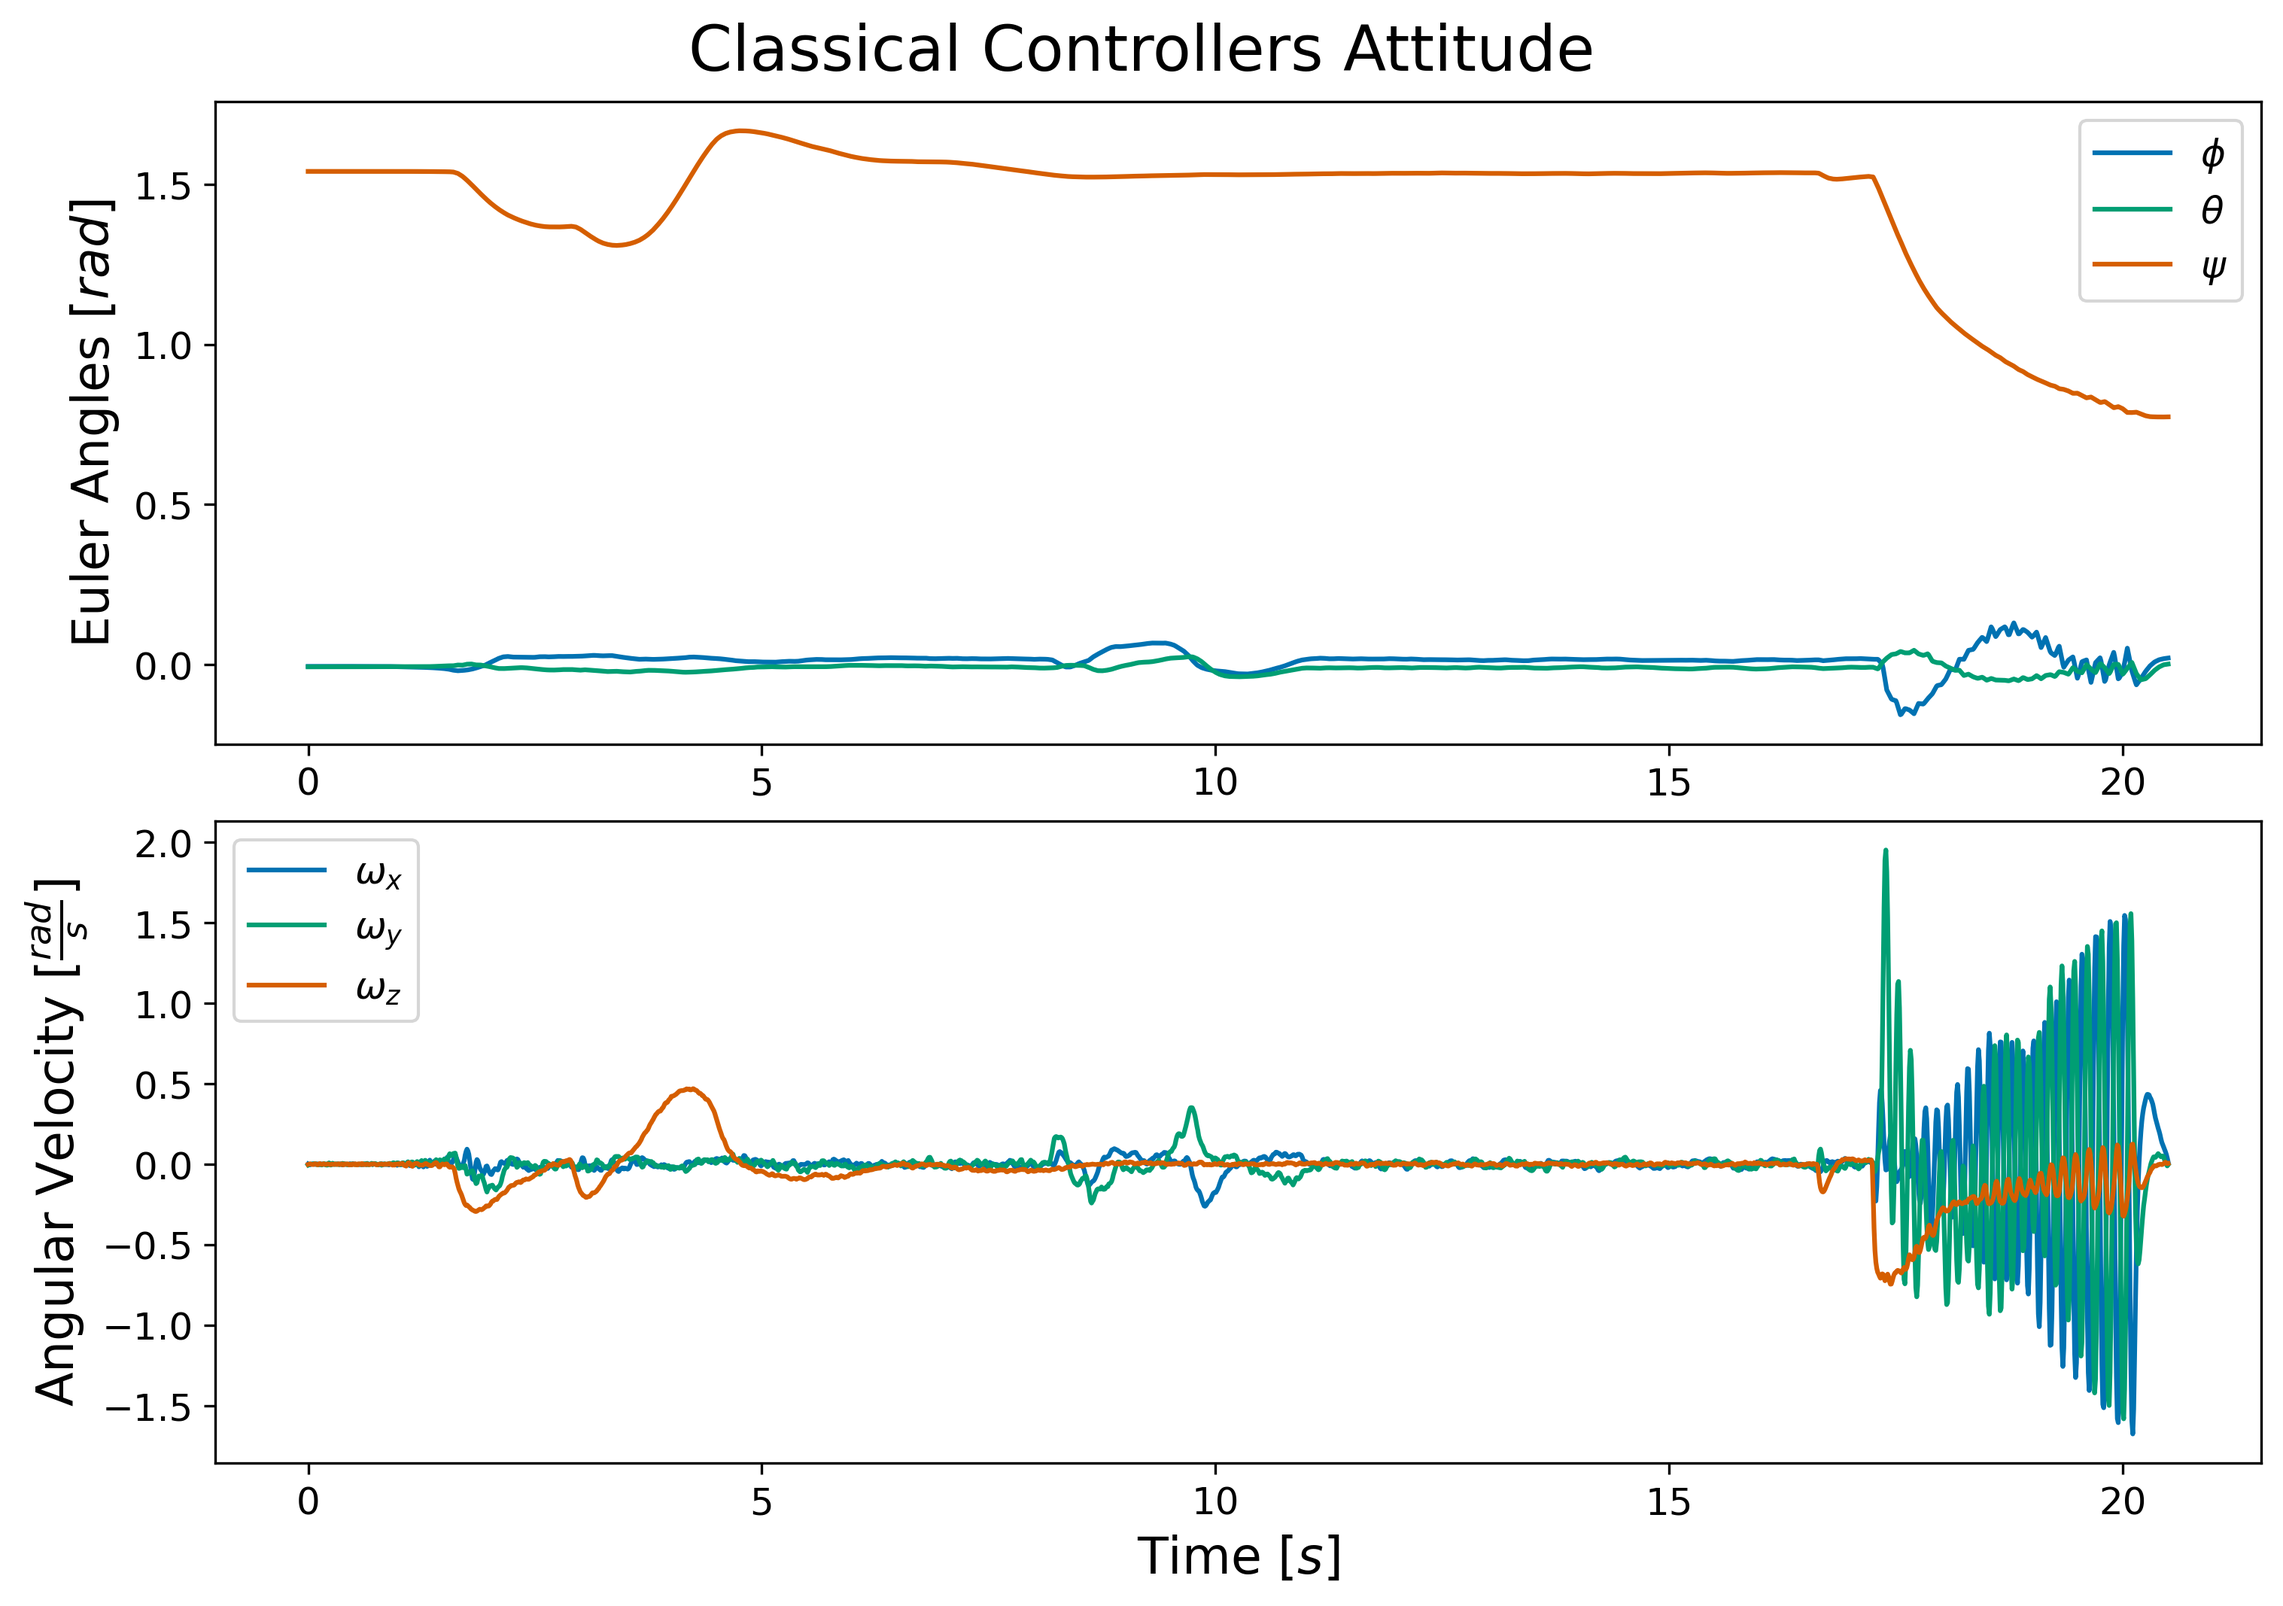
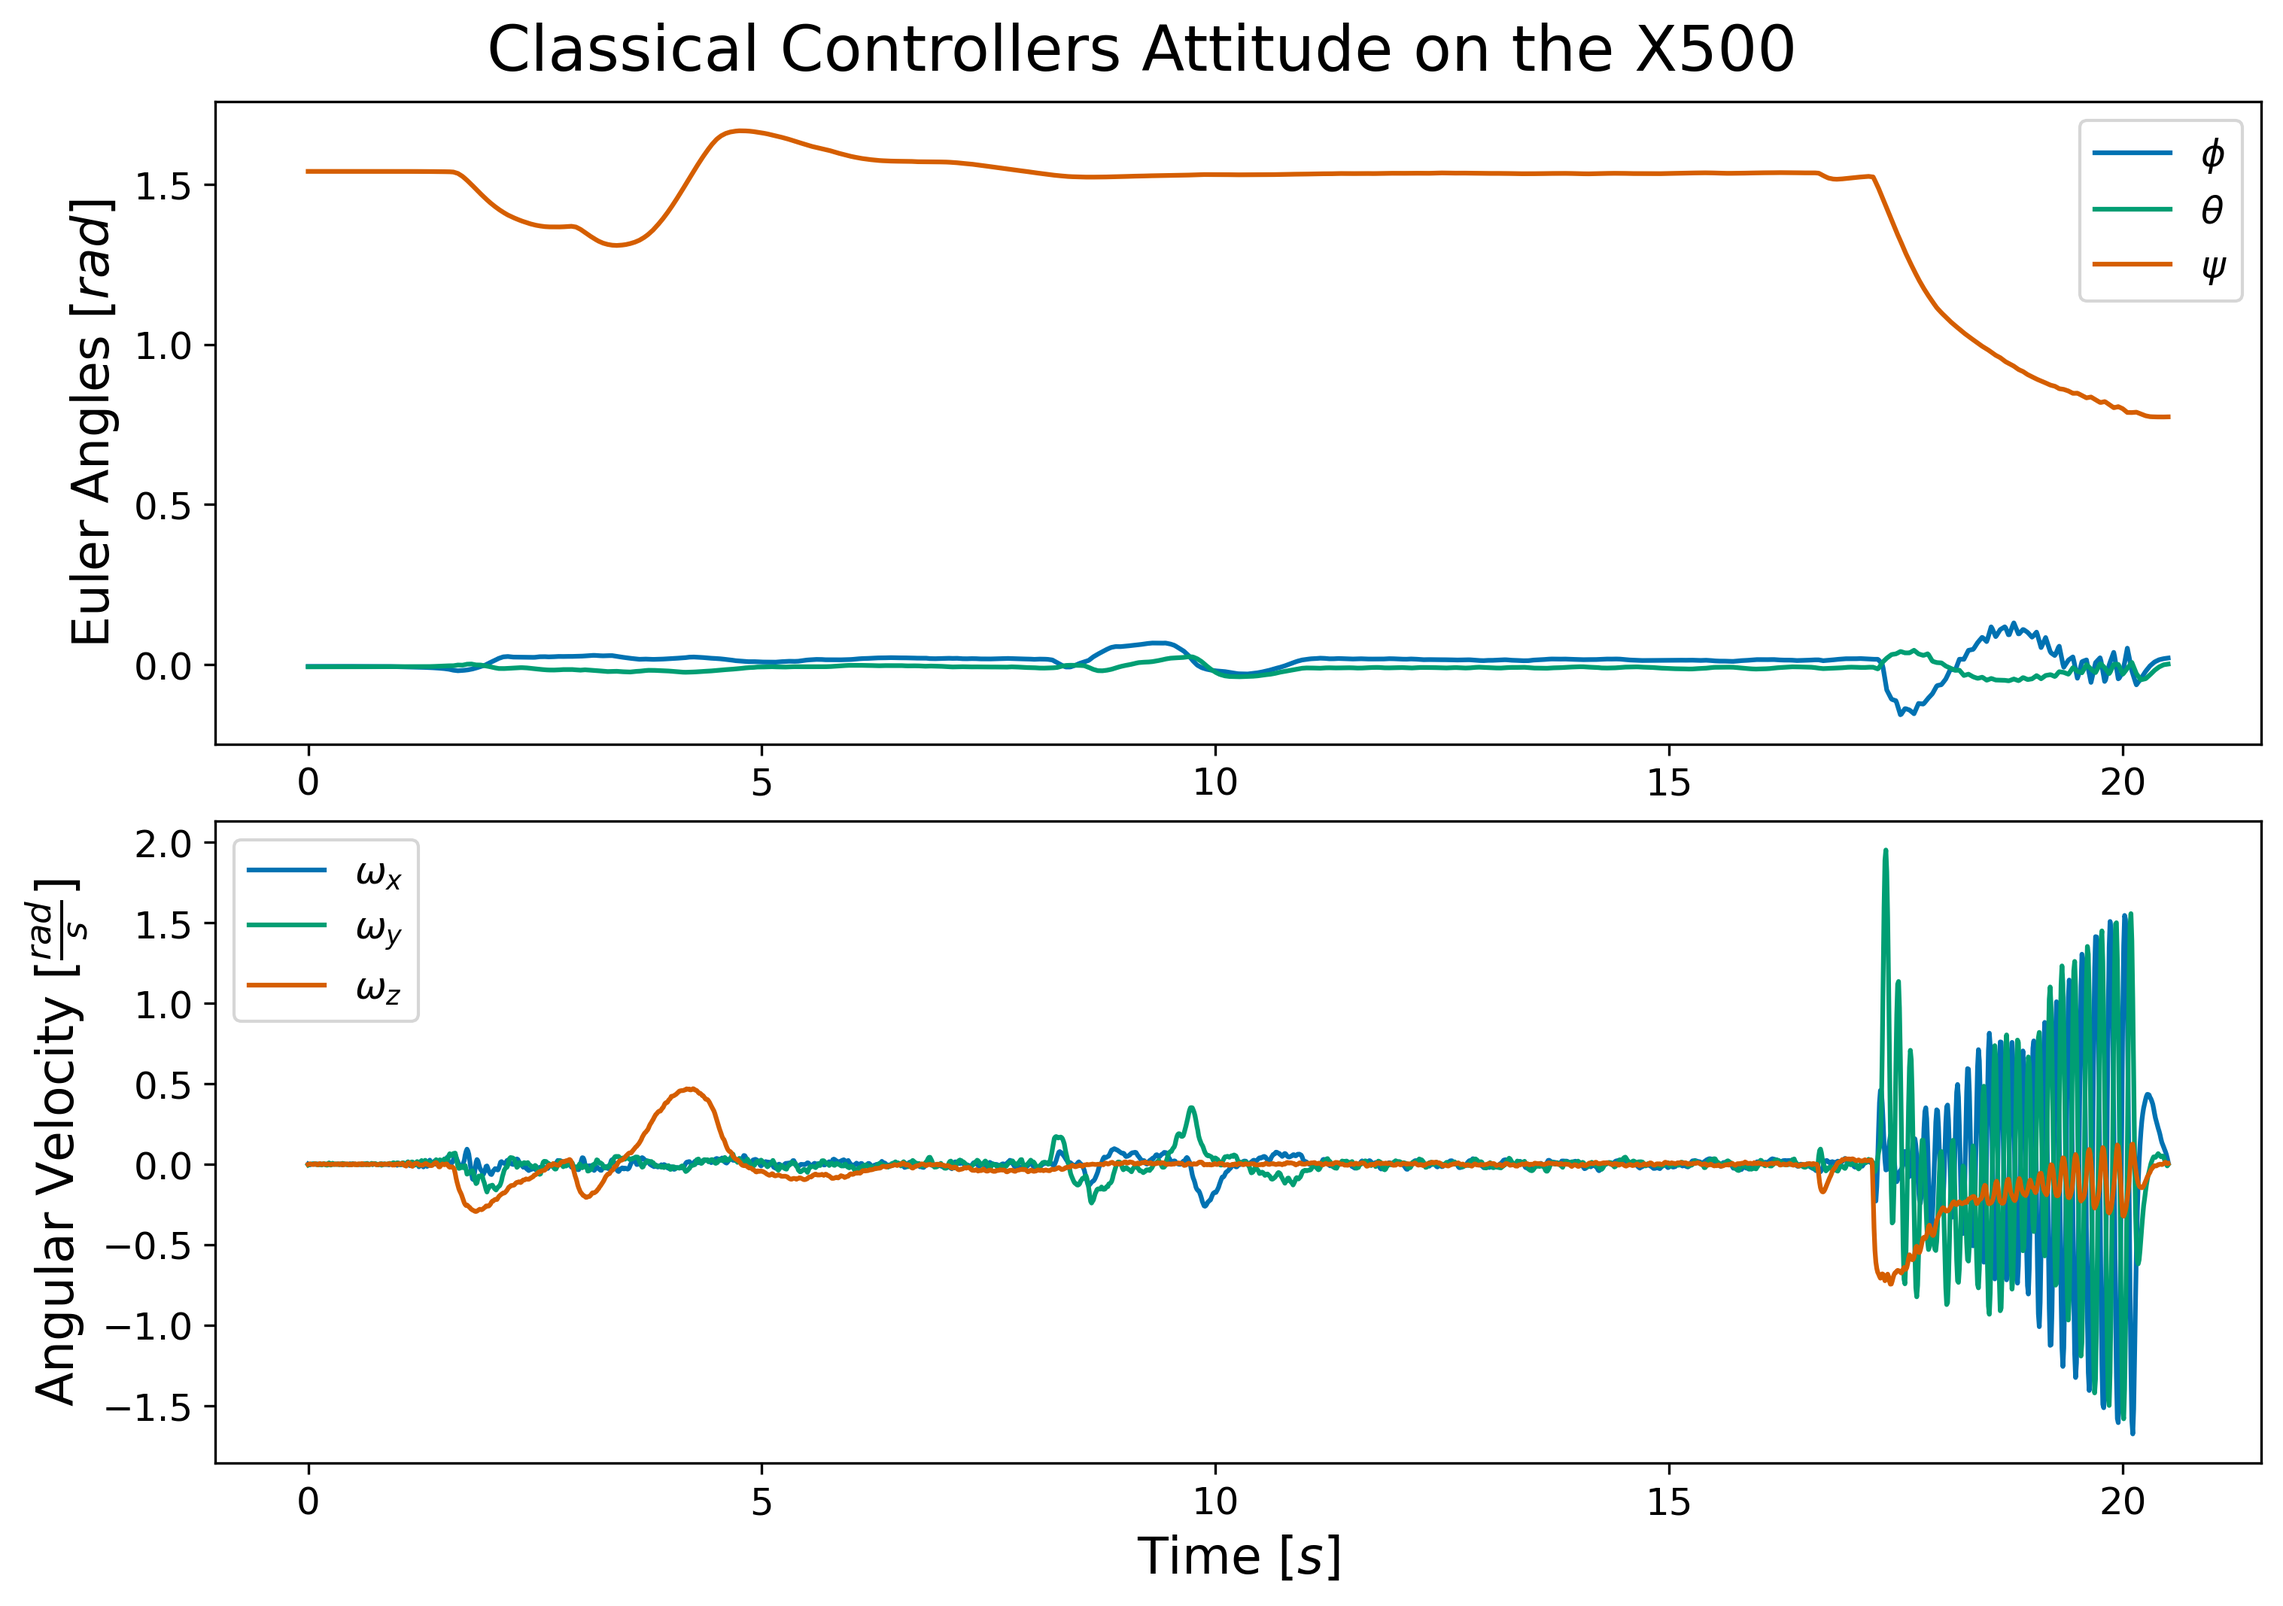
update plots

Changed region(s): [[0.2169, 0.0, 0.7746, 0.0619]]

diff --git a/resources/plot/plot_x500.py b/resources/plot/plot_x500.py
@@ -23,6 +23,7 @@ if __name__ == "__main__":
     attitude_data = pd.read_csv("./ulogs/" + exp_name + "/" + exp_name + "_vehicle_attitude_0.csv")
     angular_velocity_data = pd.read_csv("./ulogs/" + exp_name + "/" + exp_name + "_vehicle_angular_velocity_0.csv")
     actuator_motor_data = pd.read_csv("./ulogs/" + exp_name + "/" + exp_name + "_actuator_motors_0.csv")
+    cpu_load_data = pd.read_csv("./ulogs/" + exp_name + "/" + exp_name + "_cpuload_0.csv")
 
     # Extract data and remove 0 values from rpm (publishing issue)
     pos_real = np.array([local_position_data["x"].tolist(),local_position_data["y"].tolist(),local_position_data["z"].tolist()])
@@ -49,6 +50,7 @@ if __name__ == "__main__":
                                  attitude_data["q[2]"].tolist(),attitude_data["q[3]"].tolist()])
     actuator_motors = np.array([actuator_motor_data["control[0]"].tolist(),actuator_motor_data["control[1]"].tolist(),
                                 actuator_motor_data["control[2]"].tolist(),actuator_motor_data["control[3]"].tolist()])
+    cpu_load = np.array([cpu_load_data["load"].tolist(), cpu_load_data["ram_usage"].tolist()])
 
     inference_time = np.array(data["inference_time"].tolist())[1:]
     controller_time = np.array(data["controller_time"].tolist())[1:]
@@ -77,6 +79,7 @@ if __name__ == "__main__":
     time_points_ang_vel = np.array((angular_velocity_data["timestamp"].iloc[:] - start_time))*uorb_timestep_size
     time_points_attitude = np.array((attitude_data["timestamp"].iloc[:] - start_time))*uorb_timestep_size
     time_points_actuator_motors = np.array((actuator_motor_data["timestamp"].iloc[:] - start_time))*uorb_timestep_size
+    time_points_cpu_load = np.array((cpu_load_data["timestamp"].iloc[:] - start_time))*uorb_timestep_size
 
     # Interpolate data
     f_pos_real = interp1d(time_points_pos_vel, pos_enu_real, axis=1)
@@ -90,6 +93,7 @@ if __name__ == "__main__":
     v_angvel = interp1d(time_points_ang_vel, vehicle_angvel)
     v_attitude = interp1d(time_points_attitude, vehicle_ori_euler.T)
     f_actuator_motors = interp1d(time_points_actuator_motors, actuator_motors)
+
 
 
     sim_dt = 0.01
@@ -188,32 +192,48 @@ if __name__ == "__main__":
     #axs[2].xlim(0, 30)
 
 
-    fig.suptitle("Neural Control in Live Flight", fontsize=20)
+    fig.suptitle("Neural Control in Live Flight on the X500", fontsize=20)
     plt.savefig(exp_name + "_plot.png", dpi=300, bbox_inches='tight')
     plt.show()
 
     plt.rcParams['figure.figsize'] = (14, 10)  # Width, height in inches
     inference_time_array = np.array(inference_time)  # if not already a numpy array
     controller_time_array = np.array(controller_time)  # if not already a numpy array
+    cpu_load_array = np.array(cpu_load[0])  # if not already a numpy array
+    cpu_load_ram_array = np.array(cpu_load[1])  # if not already a numpy array
     inference_time_stamps = np.linspace(plotting_time[0], plotting_time[-1], len(inference_time_array))
     controller_time_stamps = np.linspace(plotting_time[0], plotting_time[-1], len(controller_time_array))
+    cpu_load_time_stamps = np.linspace(plotting_time[0], plotting_time[-1], len(cpu_load_array))
+    cpu_load_ram_time_stamps = np.linspace(plotting_time[0], plotting_time[-1], len(cpu_load_ram_array))
+
 
     # Interpolate to match plotting_time
     f_inference = interp1d(inference_time_stamps, inference_time_array, kind='linear', fill_value="extrapolate")
     f_controller = interp1d(controller_time_stamps, controller_time_array, kind='linear', fill_value="extrapolate")
+    f_cpu_load = interp1d(cpu_load_time_stamps, cpu_load_array, kind='linear', fill_value="extrapolate")
+    f_cpu_load_ram = interp1d(cpu_load_ram_time_stamps, cpu_load_ram_array, kind='linear', fill_value="extrapolate")
 
     inference_interp = f_inference(plotting_time)
     controller_interp = f_controller(plotting_time)
+    cpu_load_interp = f_cpu_load(plotting_time)
+    cpu_load_ram_interp = f_cpu_load_ram(plotting_time)
 
     # Now plot with matching lengths
-    fig, ax = plt.subplots(constrained_layout=True)
-    ax.plot(plotting_time, inference_interp, label="Inference Time")
-    ax.plot(plotting_time, controller_interp, label="Controller Time")
-    ax.set_xlabel(r"Time [$s$]")
-    ax.set_ylabel(r"Time [$\mu s$]")
-    ax.legend()
+    fig, axs = plt.subplots(2, constrained_layout=True)
+    axs[0].plot(plotting_time, inference_interp, label="Inference Time")
+    axs[0].plot(plotting_time, controller_interp, label="Controller Time")
+    axs[0].set_ylabel(r"Time [$\mu s$]")
+    axs[0].legend()
 
-    fig.suptitle("Timing", fontsize=20)
+    axs[1].plot(plotting_time, cpu_load_interp, label="CPU Load")
+    axs[1].plot(plotting_time, cpu_load_ram_interp, label="RAM Usage")
+    axs[1].set_xlabel(r"Time [$s$]")
+    axs[1].set_ylabel(r"CPU Load [$\%$]")
+    axs[1].legend()
+    axs[1].set_ylim(0.3, 0.5)
+    axs[1].set_yticks(np.arange(0.3, 0.5, 0.02))
+
+    fig.suptitle("Timing and CPU Usage on the X500", fontsize=20)
     plt.savefig(exp_name + "_timing_plot.png", dpi=300, bbox_inches='tight')
     plt.show()
 
@@ -238,7 +258,7 @@ if __name__ == "__main__":
     axs[2].legend([r"$u_1$", r"$u_2$", r"$u_3$", r"$u_4$"])
     axs[2].set_ylim(-1, 10)
 
-    fig.suptitle("Classical Controllers", fontsize=20)
+    fig.suptitle("Classical Controllers on the X500", fontsize=20)
     plt.savefig(exp_name + "_classical_plot.png", dpi=300, bbox_inches='tight')
     plt.show()
 
@@ -255,7 +275,7 @@ if __name__ == "__main__":
     axs[1].legend([r"$\omega_x$", r"$ω_y$", r"$ω_z$"])
     axs[1].set_xlabel(r"Time [$s$]")
     # axs[1].set_ylim(-1, 1)
-    fig.suptitle("Classical Controllers Attitude", fontsize=20)
+    fig.suptitle("Classical Controllers Attitude on the X500", fontsize=20)
     plt.savefig(exp_name + "_classical_attitude_plot.png", dpi=300, bbox_inches='tight')
     plt.show()
 
@@ -271,7 +291,7 @@ if __name__ == "__main__":
     axs[1].legend([r"$\omega_x$", r"$ω_y$", r"$ω_z$"])
     axs[1].set_xlabel(r"Time [$s$]")
     # axs[1].set_ylim(-1.2, 1.2)
-    fig.suptitle("Neural Control Attitude", fontsize=20)
+    fig.suptitle("Neural Control Attitude on the X500", fontsize=20)
     plt.savefig(exp_name + "_neural_attitude_plot.png", dpi=300, bbox_inches='tight')
     plt.show()
 

diff --git a/resources/plot/plot_network_observations_sindre.py b/resources/plot/plot_network_observations_sindre.py
@@ -20,6 +20,7 @@ if __name__ == "__main__":
     # Load data
     data = pd.read_csv("./ulogs/" + exp_name + "/" + exp_name + "_neural_control_0.csv")
     local_position_data = pd.read_csv("./ulogs/" + exp_name + "/" + exp_name + "_vehicle_local_position_0.csv")
+    cpu_load_data = pd.read_csv("./ulogs/" + exp_name + "/" + exp_name + "_cpuload_0.csv")
 
     # Extract data and remove 0 values from rpm (publishing issue)
     pos_real = np.array([local_position_data["x"].tolist(),local_position_data["y"].tolist(),local_position_data["z"].tolist()])
@@ -59,6 +60,7 @@ if __name__ == "__main__":
 
     time_points = np.array((data["timestamp"].iloc[1:] - start_time))*uorb_timestep_size
     time_points_pos_vel = np.array((local_position_data["timestamp"].iloc[:] - start_time))*uorb_timestep_size
+    time_points_cpu_load = np.array((cpu_load_data["timestamp"].iloc[:] - start_time))*uorb_timestep_size
 
     # Interpolate data
     f_pos_real = interp1d(time_points_pos_vel, pos_enu_real, axis=1)
@@ -67,7 +69,9 @@ if __name__ == "__main__":
     f_ori = interp1d(time_points, ori_euler.T)
     f_ang_vel = interp1d(time_points, ang_vel, axis=1)
     f_m_thrust = interp1d(time_points, m_thrust)
-
+    # Use time_points_cpu_load which matches the length of cpu_load_data
+    f_cpu_load = interp1d(time_points_cpu_load, cpu_load_data["load"].tolist())
+    f_cpu_load_ram = interp1d(time_points_cpu_load, cpu_load_data["ram_usage"].tolist())
 
     sim_dt = 0.01
     T_start = max([time_points[0], time_points_pos_vel[0]])
@@ -85,6 +89,8 @@ if __name__ == "__main__":
     ori_interp = f_ori(time_points)
     ang_vel_interp = f_ang_vel(time_points)
     m_thrust_interp = f_m_thrust(time_points)*6
+    cpu_load_interp = f_cpu_load(time_points)
+    cpu_load_ram_interp = f_cpu_load_ram(time_points)
 
     k_t = 0.000015
 
@@ -150,33 +156,52 @@ if __name__ == "__main__":
     #axs[2].xlim(0, 30)
 
 
-    fig.suptitle("Neural Control in Live Flight", fontsize=20)
+    fig.suptitle("Neural Control in Live Flight on the LMF", fontsize=20)
     plt.savefig(exp_name + "_plot.png", dpi=300, bbox_inches='tight')
     plt.show()
 
     plt.rcParams['figure.figsize'] = (14, 10)  # Width, height in inches
     inference_time_array = np.array(inference_time)  # if not already a numpy array
     controller_time_array = np.array(controller_time)  # if not already a numpy array
+    cpu_load_array = np.array(cpu_load_data["load"].tolist())  # CPU load
+    cpu_load_ram_array = np.array(cpu_load_data["ram_usage"].tolist())  # RAM usage
+
+    # Create time stamps for interpolation
     inference_time_stamps = np.linspace(plotting_time[0], plotting_time[-1], len(inference_time_array))
     controller_time_stamps = np.linspace(plotting_time[0], plotting_time[-1], len(controller_time_array))
+    cpu_load_time_stamps = np.linspace(plotting_time[0], plotting_time[-1], len(cpu_load_array))
+    cpu_load_ram_time_stamps = np.linspace(plotting_time[0], plotting_time[-1], len(cpu_load_ram_array))
 
     # Interpolate to match plotting_time
     f_inference = interp1d(inference_time_stamps, inference_time_array, kind='linear', fill_value="extrapolate")
     f_controller = interp1d(controller_time_stamps, controller_time_array, kind='linear', fill_value="extrapolate")
+    f_cpu_load = interp1d(cpu_load_time_stamps, cpu_load_array, kind='linear', fill_value="extrapolate")
+    f_cpu_load_ram = interp1d(cpu_load_ram_time_stamps, cpu_load_ram_array, kind='linear', fill_value="extrapolate")
 
     inference_interp = f_inference(plotting_time)
     controller_interp = f_controller(plotting_time)
+    cpu_load_interp = f_cpu_load(plotting_time)
+    cpu_load_ram_interp = f_cpu_load_ram(plotting_time)
 
-    # Now plot with matching lengths
-    fig, ax = plt.subplots(constrained_layout=True)
-    ax.plot(plotting_time, inference_interp, label="Inference Time")
-    ax.plot(plotting_time, controller_interp, label="Controller Time")
-    ax.set_xlabel(r"Time [$s$]")
-    ax.set_ylabel(r"Time [$\mu s$]")
-    ax.legend()
+    # Now plot the CPU and timing data
+    fig, axs = plt.subplots(2, constrained_layout=True)
+    axs[0].plot(plotting_time, inference_interp, label="Inference Time")
+    axs[0].plot(plotting_time, controller_interp, label="Controller Time")
+    axs[0].set_ylabel(r"Time [$\mu s$]")
+    axs[0].legend()
 
-    fig.suptitle("Timing", fontsize=20)
-    plt.savefig(exp_name + "_timing_plot.png", dpi=300, bbox_inches='tight')
+    axs[1].plot(plotting_time, cpu_load_interp, label="CPU Load")
+    axs[1].plot(plotting_time, cpu_load_ram_interp, label="RAM Usage")
+    axs[1].set_xlabel(r"Time [$s$]")
+    axs[1].set_ylabel(r"CPU Load [$\%$]")
+    axs[1].legend()
+    axs[1].set_ylim(0.35, 0.55)
+    axs[1].set_yticks(np.arange(0.35, 0.55, 0.02))
+
+    print("Mean CPU Load: ", np.mean(cpu_load_interp))
+
+    fig.suptitle("Timing and CPU Usage on the LMF", fontsize=20)
+    plt.savefig(exp_name + "_timing_cpu_plot.png", dpi=300, bbox_inches='tight')
     plt.show()
 
     from mpl_toolkits.mplot3d import Axes3D
